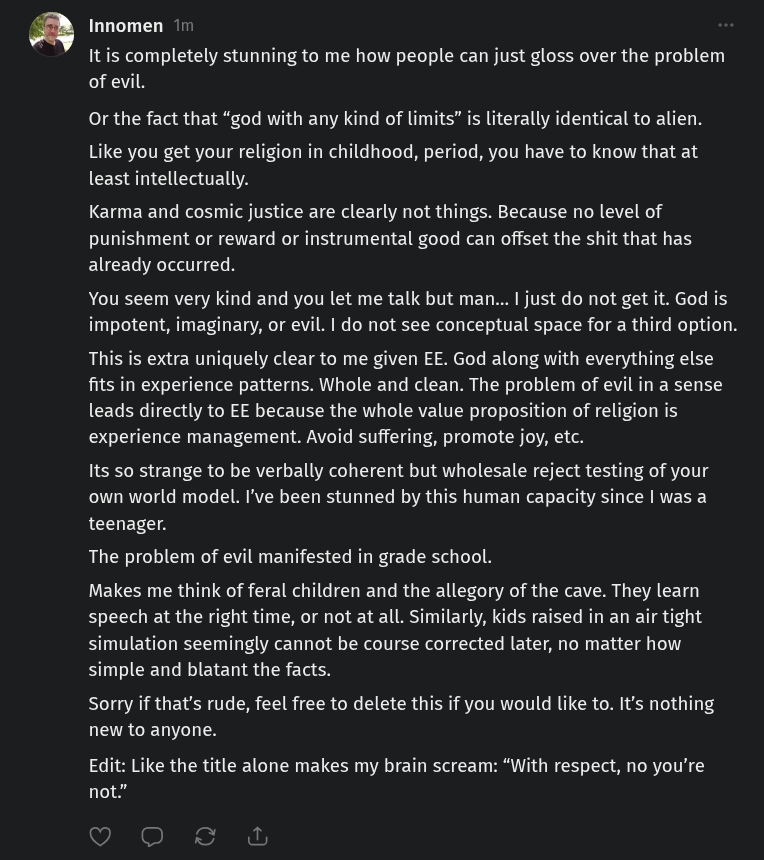
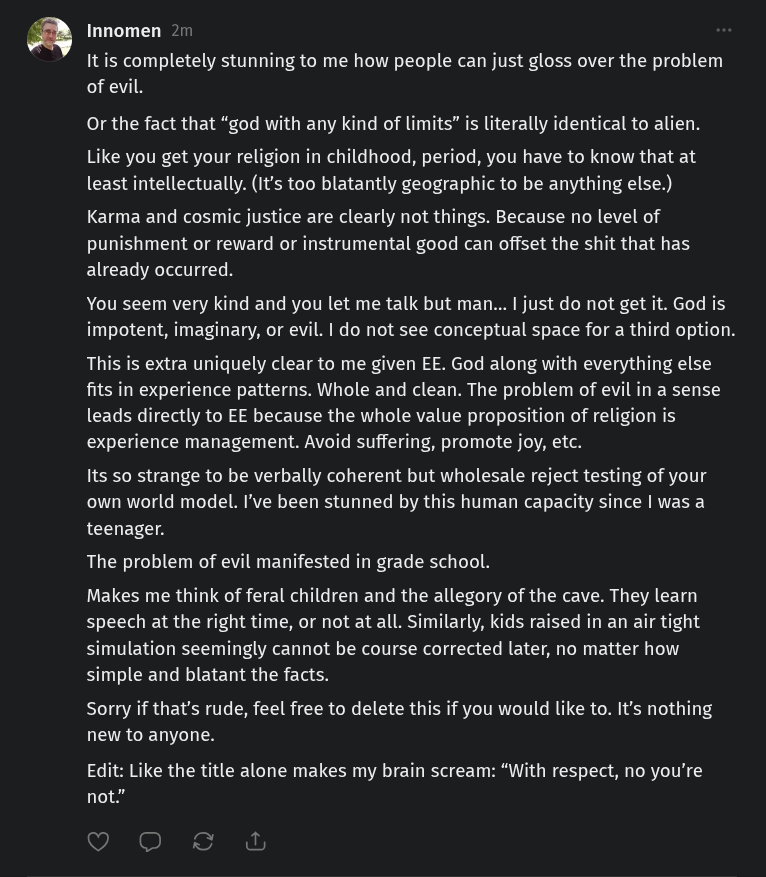
sync: 2 file change(s) 2026-09-05 19:15:42

diff --git a/ocr/Screenshot_20260905_191438.md b/ocr/Screenshot_20260905_191438.md
@@ -1,8 +1,8 @@
 ---
 type: public-take-ocr
 source_image: "../Screenshot_20260905_191438.png"
[1 lines of base64/hex data omitted]
-captured: "2026-09-05T19:14:49-05:00"
[1 lines of base64/hex data omitted]
+captured: "2026-09-05T19:15:35-05:00"
 ocr_engine: tesseract-5
 status: machine-transcribed
 tags: [my-takes, public-take, ocr]
@@ -16,7 +16,7 @@ tags: [my-takes, public-take, ocr]
 
 E
 
-Innomen I
+Innomen 2rr
 
 It is completely stunning to me how people can just gloss over the problem
 of evil.
@@ -24,7 +24,7 @@ of evil.
 Or the fact that “god with any kind of limits” is literally identical to alien.
 
 Like you get your religion in childhood, period, you have to know that at
-least intellectually.
+least intellectually. (It's too blatantly geographic to be anything else.)
 
 Karma and cosmic justice are clearly not things. Because no level of
 punishment or reward or instrumental good can offset the shit that has
